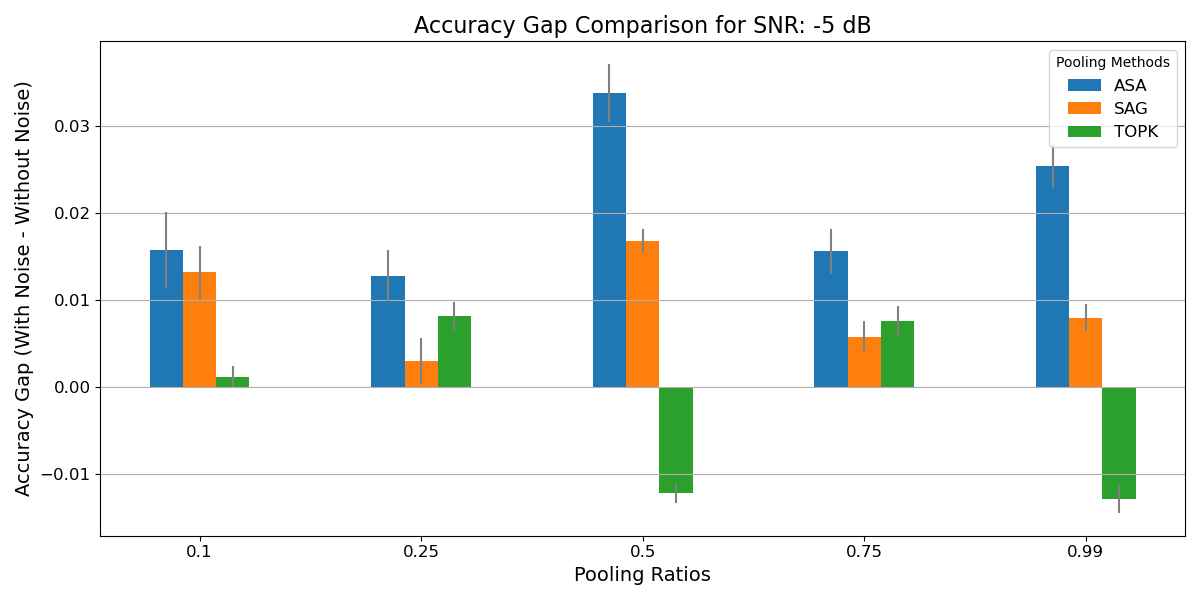
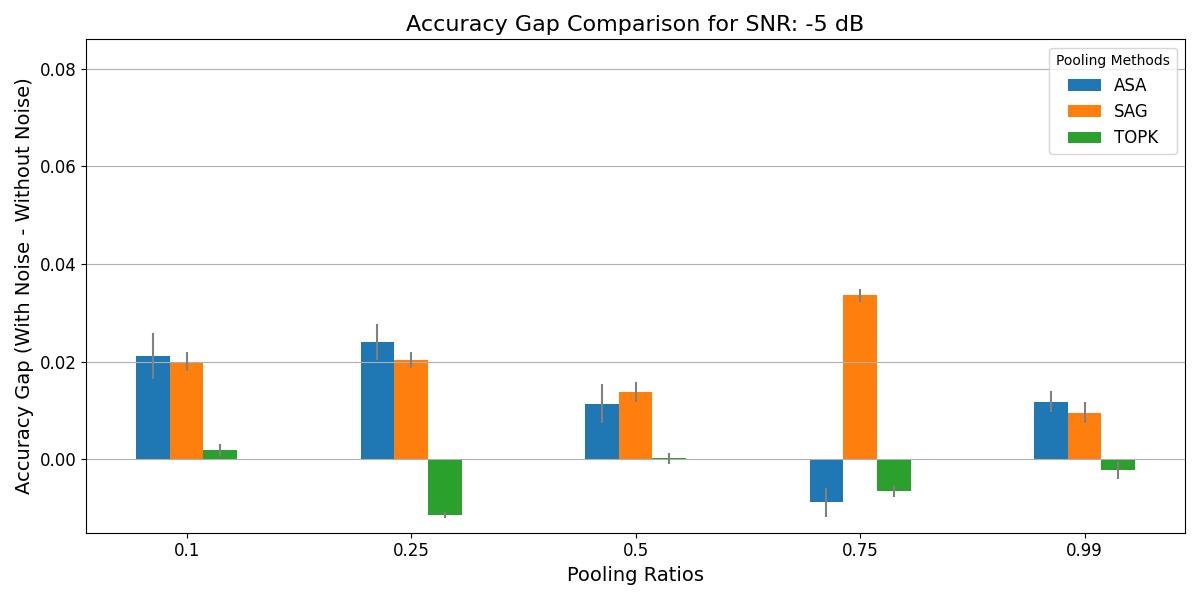
minor things

diff --git a/main.py b/main.py
@@ -16,6 +16,10 @@ from pytorch_lightning.callbacks import ModelCheckpoint
 from baseline_models import MLP_KMeans, MLP_PCA, Perceiver_channel, MLP_Bottleneck, Knn_channel
 import pickle
 
+import seaborn as sns
+
+
+
 @hydra.main(version_base=None, config_path="conf", config_name="config")
 def setup_training(config):
     pl.seed_everything(config.my_model.seed)
@@ -863,78 +867,6 @@ def plot_results_comparison(config):
 
             print(f"Plot saved to {filename}")
 
-# @hydra.main(version_base=None, config_path="conf", config_name="config")
-# def plot_gap_comparison_for_methods(config):
-#     """
-#     Generates bar charts to compare the accuracy gap across different methods for each pooling ratio.
-#     Each bar represents a method, and the height corresponds to the accuracy gap for a given SNR.
-    
-#     Args:
-#         with_noise_results: Results with noise.
-#         without_noise_results: Results without noise.
-#         snr_values: A list of SNR values.
-#         config: The configuration object containing pool methods and ratios.
-#     """
-#     with_noise_results = load_results('with_noise_results.pkl')
-#     without_noise_results = load_results('without_noise_results.pkl')
-#     snr_values = config.exp.snr_values 
-#     # Get pooling methods and ratios from the config
-#     pool_methods = config.exp.pool_methods
-#     pooling_ratios = config.exp.pooling_ratios
-    
-#     # Define bar width and positions
-#     bar_width = 0.15  # Width of each bar
-#     n_methods = len(pool_methods)
-    
-#     # Loop over each pooling ratio
-#     for pool_ratio in pooling_ratios:
-#         plt.figure(figsize=(12, 6))  # Create a new figure for each pooling ratio
-
-#         # Store the bar positions for each method for a given SNR value
-#         indices = np.arange(len(snr_values))  # Number of bars (one per SNR)
-
-#         # For each pooling method, calculate the gap and plot the bars
-#         for idx, pool_method in enumerate(pool_methods):
-#             accuracy_gaps = []
-
-#             # Collect the accuracy gap for each SNR
-#             for snr_value in snr_values:
-#                 if (pool_method in with_noise_results[snr_value] and pool_ratio in with_noise_results[snr_value][pool_method]
-#                     and pool_method in without_noise_results[snr_value] and pool_ratio in without_noise_results[snr_value][pool_method]):
-                    
-#                     accuracy_with_noise = with_noise_results[snr_value][pool_method][pool_ratio]["accuracies"]
-#                     accuracy_without_noise = without_noise_results[snr_value][pool_method][pool_ratio]["accuracies"]
-
-#                     # Calculate the accuracy gap
-#                     accuracy_gap = accuracy_with_noise - accuracy_without_noise
-#                     accuracy_gaps.append(accuracy_gap)
-#                 else:
-#                     print(f"No data found for SNR: {snr_value}, Method: {pool_method}, Ratio: {pool_ratio}")
-#                     accuracy_gaps.append(0)  # Assign zero if data not available
-
-#             # Plot the bars for the current pooling method
-#             plt.bar(indices + idx * bar_width, accuracy_gaps, bar_width, label=pool_method.upper())
-
-#         # Customize the plot
-#         plt.title(f"Accuracy Gap Comparison for Pooling Ratio: {pool_ratio}", fontsize=16)
-#         plt.xlabel("SNR (dB)", fontsize=14)
-#         plt.ylabel("Accuracy Gap (With Noise - Without Noise)", fontsize=14)
-#         plt.xticks(indices + bar_width * (n_methods - 1) / 2, snr_values, fontsize=12)  # Center ticks between bars
-#         plt.yticks(fontsize=12)
-#         plt.legend(fontsize=12)
-#         plt.grid(True, axis='y')
-
-#         # Save the plot
-#         save_dir = f"new_dgm/comparison_plots/imdb/gap_comparison_plots"
-#         os.makedirs(save_dir, exist_ok=True)
-#         filename = os.path.join(save_dir, f"gap_comparison_ratio_{pool_ratio}.png")
-#         plt.tight_layout()
-#         plt.savefig(filename)
-#         plt.close()
-
-#         print(f"Gap comparison plot saved to {filename}")
-
-
 from plot_utils import plot_gcn_heatmap, plot_gcn_difference
 
 
@@ -1069,7 +1001,8 @@ def plot_gap_comparison_for_methods(config):
 
             # Plot the bars for the current pooling method
             plt.bar(indices + idx * bar_width, accuracy_gaps, bar_width, label=pool_method.upper())
-            plt.errorbar(indices + idx * bar_width, accuracy_gaps, stds, fmt = 'none', color = 'grey', linewidthfloat = 0.1)
+            plt.errorbar(indices + idx * bar_width, accuracy_gaps, stds, fmt = 'none', color = 'grey')
+            plt.ylim(-0.015, 0.086 )
 
         # Customize the plot
         plt.title(f"Accuracy Gap Comparison for SNR: {snr_value} dB", fontsize=16)
@@ -1151,18 +1084,91 @@ def plot_difference_heatmap_for_methods(config):
             print(f"No data available for {pool_method.upper()}.")
 
 
-import seaborn as sns
+from mnist_utils import *
+
+@hydra.main(version_base=None, config_path="conf", config_name="config")
+def setup_training_mnist(config):
+    pl.seed_everything(config.my_model.seed)
+
+
+    assert config.dataset.loader.parameters.data_name == 'MNISTSuperpixels'
+    
+    datamodule = MNISTGraphDataModule(batch_size=config.dataset.dataloader_params.batch_size)
+
+    early_stopping_callback = EarlyStopping(
+        monitor=config.training.early_stopping.monitor,
+        patience=config.training.early_stopping.patience,
+        mode=config.training.early_stopping.mode,
+        verbose=True
+    )
+
+    checkpoint_callback = ModelCheckpoint(
+        monitor=config.training.early_stopping.monitor, 
+        filename='{epoch:02d}-{val_loss:.2f}',  
+        save_top_k=1,  
+        mode=config.training.early_stopping.mode, 
+        save_weights_only=True  
+    )
+
+
+    #wandb_logger = WandbLogger(project='imdb_new_dgm')
+    # wandb_logger = WandbLogger(project='mine_vs_baseline_PROTEINS_nodgm')
+    hparams = create_hyperparameters(config)
+    #wandb_logger.log_hyperparams(hparams)
+
+    if config.my_model.name == 'dgm_channel':
+        channel = Model_channel(hparams)
+        trainer = pl.Trainer(max_epochs=config.training.max_epochs, accelerator = "cpu", callbacks=[checkpoint_callback, early_stopping_callback])#, logger=wandb_logger, log_every_n_steps=2)
+        trainer.fit(channel, datamodule)
+        best_model_path = checkpoint_callback.best_model_path
+        best_model = Model_channel.load_from_checkpoint(best_model_path, hparams=hparams)
+
+    elif config.my_model.name == 'perceiver': 
+        channel = Perceiver_channel(hparams)
+        trainer = pl.Trainer(max_epochs=config.training.max_epochs, accelerator = "cpu", callbacks=[checkpoint_callback, early_stopping_callback])#, logger=wandb_logger, log_every_n_steps=2)
+        trainer.fit(channel, datamodule)
+        best_model_path = checkpoint_callback.best_model_path
+        best_model = Perceiver_channel.load_from_checkpoint(best_model_path, hparams=hparams) 
+
+    elif config.my_model.name == 'mlp_bottleneck': 
+        channel = MLP_Bottleneck(hparams)
+        trainer = pl.Trainer(max_epochs=config.training.max_epochs, accelerator = "cpu", callbacks=[checkpoint_callback, early_stopping_callback],)# logger=wandb_logger, log_every_n_steps=2)
+        trainer.fit(channel, datamodule)
+        best_model_path = checkpoint_callback.best_model_path
+        best_model = MLP_Bottleneck.load_from_checkpoint(best_model_path, hparams=hparams) 
+
+    else:
+        print('Model not implemented. Check config file')
+
+
+    
+    return trainer, best_model, datamodule
+
+
+
+
+
+
+
+
+
+
+
+
+
+
+
+
+
+
+
+
+
 
 if __name__ == "__main__":
 
-    # filename = 'new_dgm\\results_with_without_gcn\\imdb\\results.pkl'
-    # with open(filename, 'rb') as f:
-    #         results = pickle.load(f)
-    # plot_gcn_difference(results)
-    # print(results['with_gcn'])
-    # print('----------------------------------------------')
-    # print(results['without_gcn'])    
-    # # setup_training()
+      
+    setup_training_mnist()
     
     # compare_poolings_fixed_snr()
     # plot_existing_res()
@@ -1172,4 +1178,4 @@ if __name__ == "__main__":
     # plot_results_comparison()
     # plot_gap_comparison_for_methods()
     # compare_with_without_gcn()
-    plot_difference_heatmap_for_methods()
+    # plot_difference_heatmap_for_methods()

diff --git a/mnist_utils.py b/mnist_utils.py
@@ -1,0 +1,85 @@
+import pytorch_lightning as pl
+from torch_geometric.loader import DataLoader
+from torch.utils.data import random_split
+from torchvision import datasets, transforms
+from torch_geometric.data import Data
+import torch
+
+# Custom Dataset for MNIST Graphs
+class MNISTGraphDataset(torch.utils.data.Dataset):
+    def __init__(self, mnist_dataset):
+        self.mnist_dataset = mnist_dataset
+
+    def __len__(self):
+        return len(self.mnist_dataset)
+
+    def __getitem__(self, idx):
+        image, label = self.mnist_dataset[idx]
+        return self.image_to_graph(image, label)
+
+    def image_to_graph(self, image, label):
+        # Flatten the image into a vector (N x 1) where N = num of pixels (28x28 = 784)
+        x = image.view(-1, 1)  # Node features, shape (N x 1), where N = 784
+        
+        # Create the edges (4-neighbor connectivity)
+        N = image.shape[1]  # N = 28, since images are 28x28
+        edge_index = []
+        
+        # Define 4-neighbor connectivity (up, down, left, right)
+        for i in range(N):
+            for j in range(N):
+                node_idx = i * N + j  # Flattened pixel index
+                if i > 0:  # Up
+                    edge_index.append([node_idx, node_idx - N])
+                if i < N - 1:  # Down
+                    edge_index.append([node_idx, node_idx + N])
+                if j > 0:  # Left
+                    edge_index.append([node_idx, node_idx - 1])
+                if j < N - 1:  # Right
+                    edge_index.append([node_idx, node_idx + 1])
+
+        edge_index = torch.tensor(edge_index, dtype=torch.long).t().contiguous()
+        
+        # Create a PyG Data object for each image
+        data = Data(x=x, edge_index=edge_index, y=label)
+
+        data.batch_0 = data.batch  # Assign current batch to batch_0
+        del data.batch
+        return data
+
+
+# PyTorch Lightning DataModule
+class MNISTGraphDataModule(pl.LightningDataModule):
+    def __init__(self, batch_size=32, num_workers=4):
+        super().__init__()
+        self.batch_size = batch_size
+        self.num_workers = num_workers
+
+    def prepare_data(self):
+        # Download the dataset here (if not already downloaded)
+        datasets.MNIST(root='./data', train=True, download=True, transform=transforms.ToTensor())
+        datasets.MNIST(root='./data', train=False, download=True, transform=transforms.ToTensor())
+
+    def setup(self, stage=None):
+        # Load the MNIST dataset
+        transform = transforms.Compose([transforms.ToTensor()])
+        mnist_train = datasets.MNIST(root='./data', train=True, download=False, transform=transform)
+        mnist_test = datasets.MNIST(root='./data', train=False, download=False, transform=transform)
+        
+        # Convert to graph datasets
+        self.train_dataset = MNISTGraphDataset(mnist_train)
+        self.test_dataset = MNISTGraphDataset(mnist_test)
+
+        # Split training into train/val sets
+        train_len = int(0.8 * len(self.train_dataset))
+        val_len = len(self.train_dataset) - train_len
+        self.train_dataset, self.val_dataset = random_split(self.train_dataset, [train_len, val_len])
+
+    def train_dataloader(self):
+        return DataLoader(self.train_dataset, batch_size=self.batch_size, num_workers=self.num_workers, shuffle=True)
+
+    def val_dataloader(self):
+        return DataLoader(self.val_dataset, batch_size=self.batch_size, num_workers=self.num_workers)
+
+    def test_dataloader(self):
+        return DataLoader(self.test_dataset, batch_size=self.batch_size, num_workers=self.num_workers)

diff --git a/baseline_models.py b/baseline_models.py
@@ -531,7 +531,7 @@ class MLP_Bottleneck(pl.LightningModule):
         '''
         
         x = data.x.detach()
-        batch = data.batch_0
+        batch = data.batch
         ptr = data.ptr
 
         x = self.pre(x)
@@ -580,7 +580,7 @@ class MLP_Bottleneck(pl.LightningModule):
         if torch.isnan(tr_loss).any() or torch.isnan(pred).any():
             print(f"NaN detected in training data or loss at batch {batch_idx}")
             print(f"Predictions: {pred}, Labels: {train_lab}")
-        batch_size = batch.batch_0.max().item() + 1  
+        batch_size = batch.batch.max().item() + 1  
         self.log("train_acc", self.train_acc(pred.softmax(-1).argmax(-1), train_lab), on_step=False, on_epoch=True, prog_bar = True, batch_size = batch_size)
         self.log("train_loss", tr_loss, on_step=False, on_epoch=True, prog_bar = True, batch_size = batch_size)
         #torch.nn.utils.clip_grad_norm_(self.parameters(), max_norm=1.0)
@@ -598,7 +598,7 @@ class MLP_Bottleneck(pl.LightningModule):
         if torch.isnan(val_loss).any() or torch.isnan(pred).any():
             print(f"NaN detected in validation data or loss at batch {batch_idx}")
             print(f"Predictions: {pred}, Labels: {val_lab}")
-        batch_size = batch.batch_0.max().item() + 1  
+        batch_size = batch.batch.max().item() + 1  
         # Compute and log validation accuracy
         val_acc = self.val_acc(pred.softmax(-1).argmax(-1), val_lab)
         

diff --git a/loaders/graphloader.py b/loaders/graphloader.py
@@ -262,7 +262,8 @@ class GraphLoader(AbstractLoader):
         elif self.parameters.data_name in MNIST:
             
             # Load the MNIST dataset (only train set)
-            dataset = torch_geometric.datasets.MNISTSuperpixels(root='data', train=True)
+            dataset = torch_geometric.datasets.MNISTSuperpixels(root=root_data_dir, train=True)
+            data_dir = root_data_dir 
 
 
         elif self.parameters.data_name in HETEROPHILIC_DATASETS:
@@ -662,7 +663,8 @@ class PreProcessor(torch_geometric.data.InMemoryDataset):
         elif isinstance(dataset, torch_geometric.data.Data):
             data_list = [dataset]
         elif isinstance(dataset, torch_geometric.datasets.mnist_superpixels.MNISTSuperpixels): 
-            data_list = dataset
+            data_list = [dataset.get(idx) for idx in range(len(dataset))]
+            # data_list = dataset
         self.data_list = data_list
         self.transforms_applied = False
         super().__init__(data_dir, None, None, **kwargs)

diff --git a/baseline_layers.py b/baseline_layers.py
@@ -25,7 +25,7 @@ class FeedForward(nn.Module):
             nn.Dropout(dropout), # why dropout after linear?
         )
 
-    def forward(self, x):
+    def forward(self, x): 
         return self.net(x)
 
 
